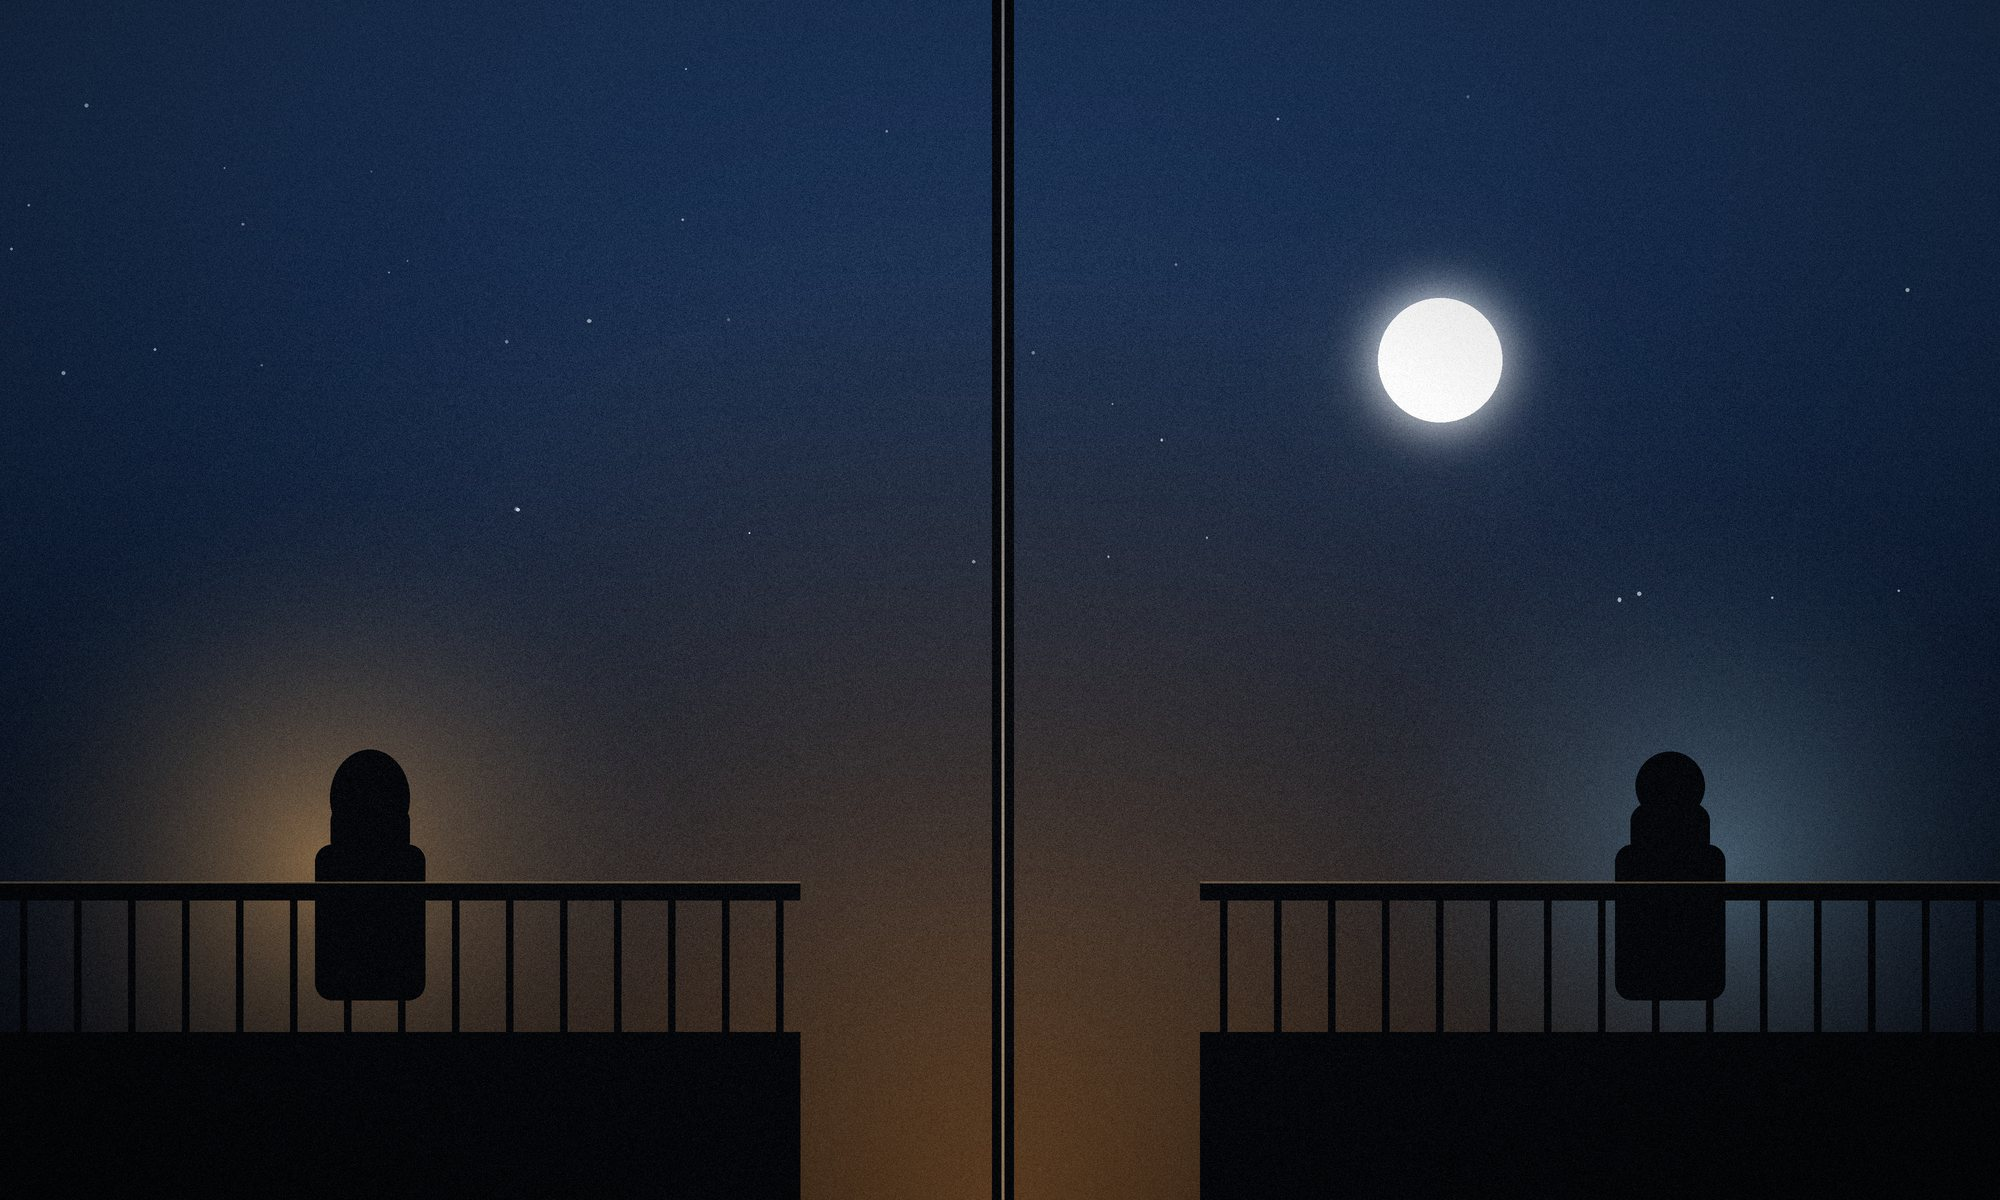
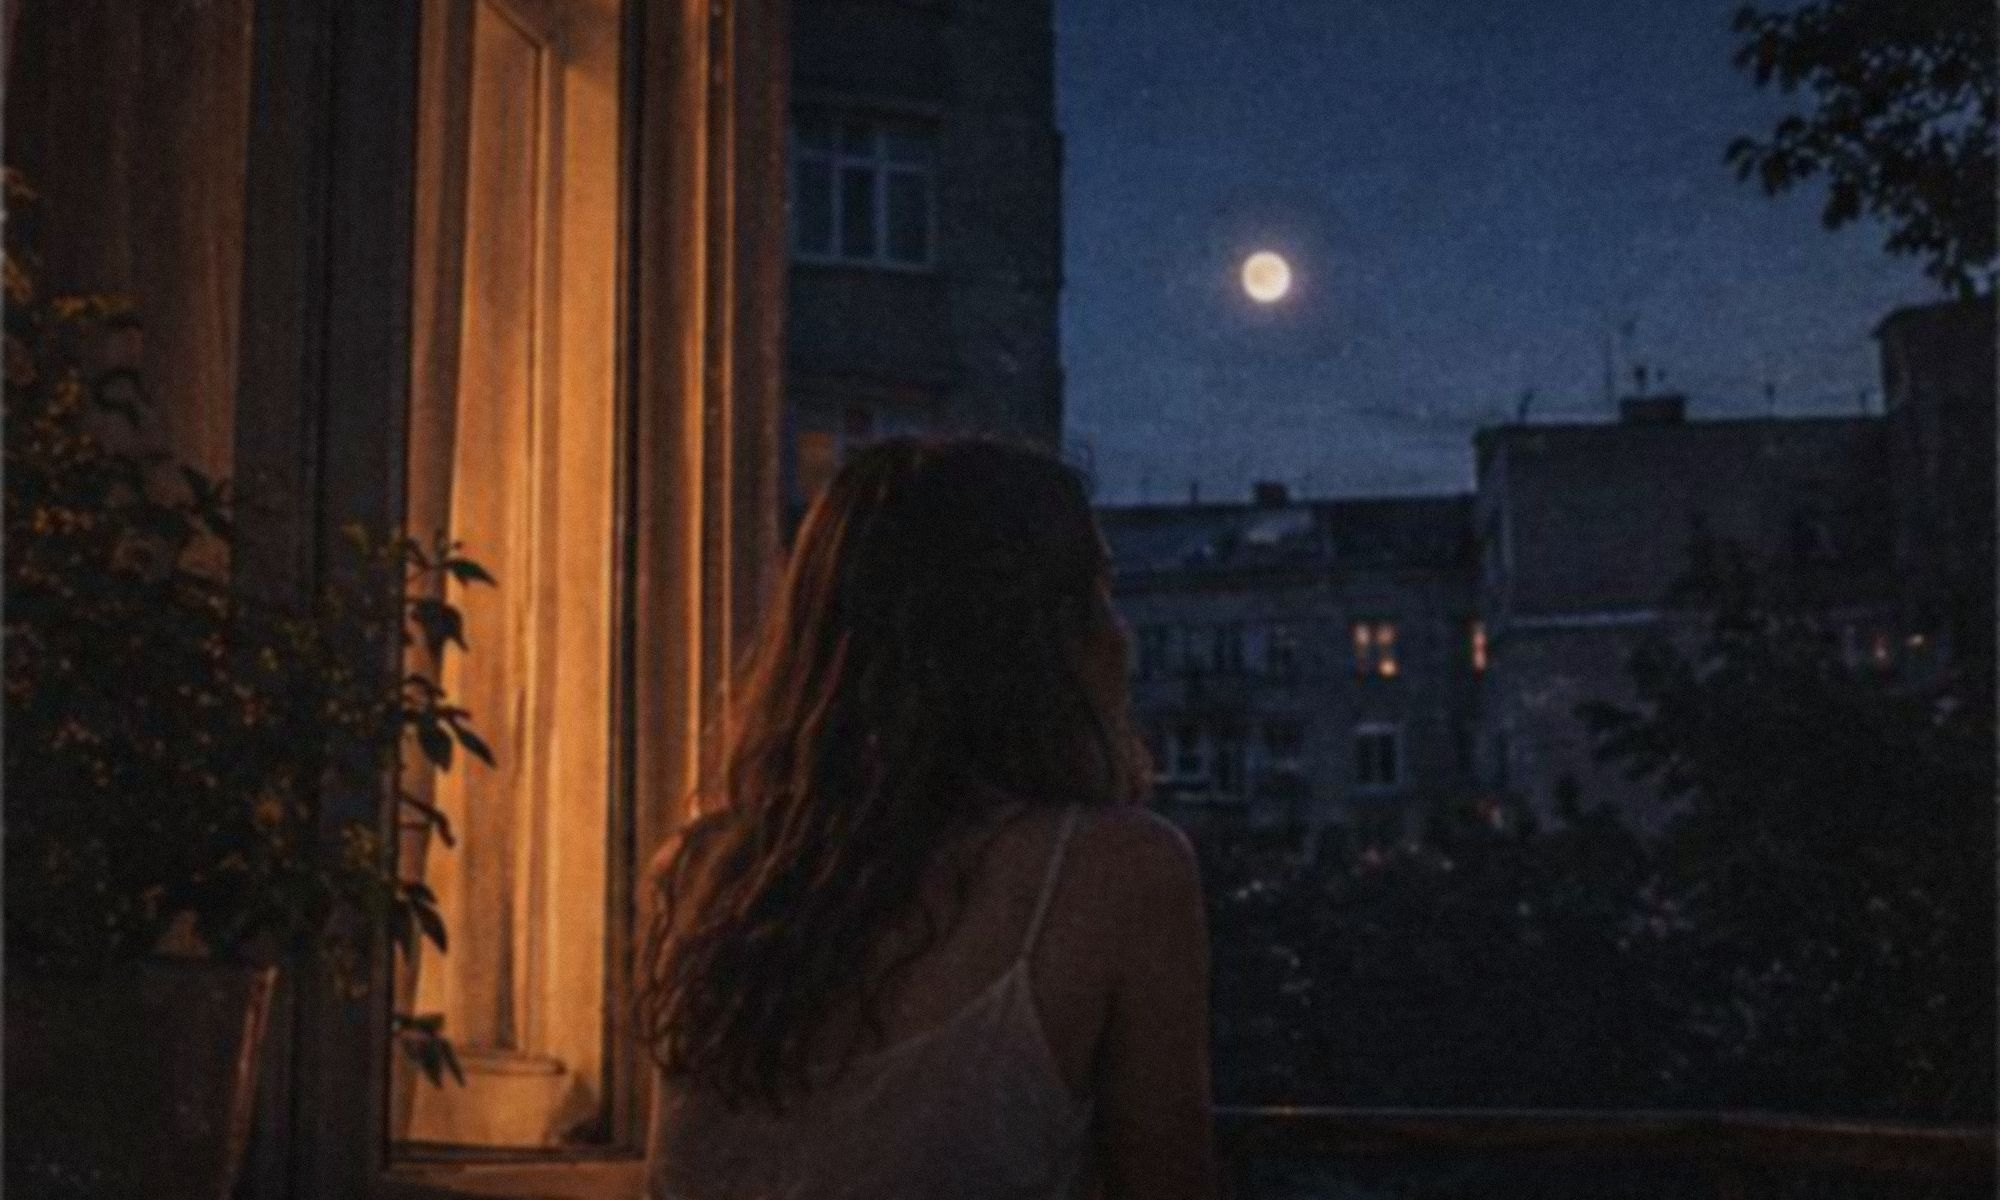
Письмо: авторский текст, кадры из коллажа фоном

diff --git a/press/avgust.html b/press/avgust.html
@@ -127,12 +127,11 @@
   <div class="band-scrim"></div>
   <div class="band-inner wrap">
     <div class="letter">
-      <p>Я пишу это в декабре, а всё ещё в августе.</p>
-      <p>Мы встретились в разных городах. Между нами было несколько сотен километров и ни одного общего вечера. Я не знал её голоса так, как знают голоса близких, — но знал, как она молчит в паузах.</p>
-      <p>Той ночью я стоял на балконе и смотрел вверх. Думал: где-то там же сейчас смотрит она. Август, звёзды падают, загадывать поздно — всё, что нужно было загадать, я уже загадал.</p>
-      <p>Второй куплет — про самое обидное. Мы ходили по одним местам, только в разное время. Могли встретиться на пять лет раньше. Или не встретиться совсем.</p>
-      <p>Песня простая: гитара, бас, барабаны, клавиши, пэд. Куплеты на 80, припевы на 86 — на припеве я специально поднял темп, чтобы стало теснее, будто воздуха меньше. Мне хотелось, чтобы ты услышал, как звучит человек, который стоит в темноте и говорит вслух то, что привык писать.</p>
-      <p>21 декабря она выйдет. Послушай.</p>
+      <p>Знаешь, меня одно время вдохновляла мысль о том, что даже находясь в разных городах, мы можем поднять глаза к небу и увидеть одни и те же звёзды и луну.</p>
+      <p>О том, что где-то по очереди гаснут окна, в которых обязательно есть люди, думающие так же.</p>
+      <p>Потом я познакомился с тобой и написал эту песню.</p>
+      <p>В ней немного меня, немного тебя и много той мысли, которая в итоге стала чем-то вполне осязаемым.</p>
+      <p>Надеюсь, что ты услышишь её где-нибудь случайно и сразу узнаешь.</p>
       <p class="letter-sign">LANI LOUD</p>
     </div>
   </div>

diff --git a/css/style.css b/css/style.css
@@ -742,7 +742,12 @@ a.platform-link:hover { border-color: var(--ember); color: #fff; background: rgb
 }
 
 /* ---------- 19. Письмо: рисунки прямо под текстом ---------- */
-.release-band { position: relative; overflow: hidden; padding: clamp(34px, 4.4vw, 66px) 0; }
+.release-band {
+  position: relative; overflow: hidden;
+  padding: clamp(34px, 4.4vw, 66px) 0;
+  min-height: clamp(340px, 40vw, 540px);
+  display: flex; align-items: center;
+}
 .band-art { position: absolute; inset: 0; z-index: 0; }
 .band-art svg, .band-art img { display: block; width: 100%; height: 100%; object-fit: cover; }
 .band-scrim {
@@ -751,7 +756,7 @@ a.platform-link:hover { border-color: var(--ember); color: #fff; background: rgb
     linear-gradient(90deg, rgba(8,8,8,.96) 0%, rgba(8,8,8,.9) 36%, rgba(8,8,8,.45) 68%, rgba(8,8,8,.12) 100%),
     linear-gradient(to bottom, rgba(8,8,8,.8) 0%, rgba(8,8,8,0) 20%, rgba(8,8,8,0) 80%, rgba(8,8,8,.85) 100%);
 }
-.band-inner { position: relative; z-index: 2; }
+.band-inner { position: relative; z-index: 2; width: 100%; }
 
 .letter { max-width: 60ch; }
 .letter p { font-size: clamp(15px, 1.12vw, 17px); line-height: 1.85; color: var(--text-soft); }

diff --git a/index.html b/index.html
@@ -31,7 +31,7 @@
 <link rel="preload" as="image" href="assets/img/hero.jpg" media="(min-width: 781px)">
 <link rel="preload" as="image" href="assets/img/hero-mobile.jpg" media="(max-width: 780px)">
 <link rel="stylesheet" href="css/fonts.css?v=d62a52b9">
-<link rel="stylesheet" href="css/style.css?v=f3563a4d">
+<link rel="stylesheet" href="css/style.css?v=529fd45f">
 <!-- класс js ставим сразу, чтобы блоки не мигали перед анимацией появления;
      если скрипты не загрузятся, через 2.5 с класс снимается и весь контент виден -->
 <script>
